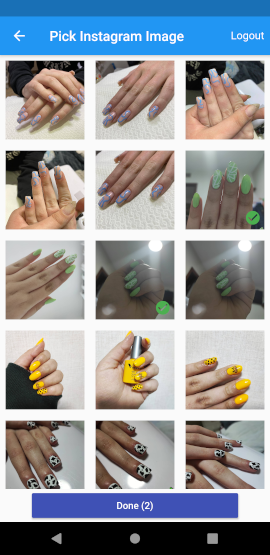
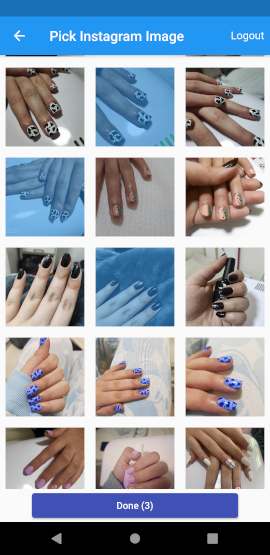
updated to use pagination + small ui tweaks

diff --git a/lib/screens.dart b/lib/screens.dart
@@ -13,11 +13,13 @@ class _InstagramLoginPageState extends State<InstagramLoginPage> {
   String _username;
   String _password;
   bool _isValid = false;
+  bool _isPasswordVisible = false;
+  bool _selectedPasswordField = false;
 
   @override
   Widget build(BuildContext context) {
     return Scaffold(
-      backgroundColor: Colors.white,
+      backgroundColor: Colors.grey[50],
       appBar: AppBar(
         backgroundColor: Colors.grey[800],
         title: const Text(
@@ -45,6 +47,11 @@ class _InstagramLoginPageState extends State<InstagramLoginPage> {
                   Container(
                     height: 48,
                     child: TextFormField(
+                      onTap: () {
+                        setState(() {
+                          _selectedPasswordField = false;
+                        });
+                      },
                       initialValue: _username ?? '',
                       onChanged: (val) {
                         _username = val;
@@ -56,11 +63,11 @@ class _InstagramLoginPageState extends State<InstagramLoginPage> {
                         hintStyle: TextStyle(color: Colors.grey[600]),
                         focusedBorder: OutlineInputBorder(
                           borderSide:
-                              BorderSide(color: Colors.grey, width: 0.9),
+                              BorderSide(color: Colors.grey[700], width: 0.9),
                         ),
                         enabledBorder: OutlineInputBorder(
                           borderSide:
-                              BorderSide(color: Colors.grey, width: 0.6),
+                              BorderSide(color: Colors.grey, width: 0.9),
                         ),
                       ),
                     ),
@@ -68,26 +75,58 @@ class _InstagramLoginPageState extends State<InstagramLoginPage> {
                   const SizedBox(height: 8),
                   Container(
                     height: 48,
+                    decoration: BoxDecoration(
+                        borderRadius: BorderRadius.circular(4),
+                        border: Border.all(
+                          color: _selectedPasswordField
+                              ? Colors.grey[700]
+                              : Colors.grey,
+                          width: 1.1,
+                        )),
                     child: TextFormField(
+                      onTap: () {
+                        setState(() {
+                          _selectedPasswordField = true;
+                        });
+                      },
                       initialValue: _password ?? '',
                       onChanged: (val) {
                         _password = val;
                         _checkForm();
                       },
                       decoration: InputDecoration(
+                        suffixIcon: Container(
+                          width: 76,
+                          height: 40,
+                          color: Colors.grey[100],
+                          child: CupertinoButton(
+                            padding: const EdgeInsets.all(2),
+                            child: Text(
+                              _isPasswordVisible ? "Hide" : "Show",
+                              style: TextStyle(
+                                  fontSize: 17,
+                                  color: Colors.black,
+                                  fontWeight: FontWeight.bold),
+                            ),
+                            onPressed: () {
+                              setState(() {
+                                _isPasswordVisible = !_isPasswordVisible;
+                              });
+                            },
+                          ),
+                        ),
                         isDense: true,
                         hintText: 'Password',
                         hintStyle: TextStyle(color: Colors.grey[600]),
                         focusedBorder: OutlineInputBorder(
                           borderSide:
-                              BorderSide(color: Colors.grey, width: 0.9),
+                              BorderSide(color: Colors.grey[600], width: 0),
                         ),
                         enabledBorder: OutlineInputBorder(
-                          borderSide:
-                              BorderSide(color: Colors.grey, width: 0.6),
+                          borderSide: BorderSide(color: Colors.grey, width: 0),
                         ),
                       ),
-                      obscureText: true,
+                      obscureText: !_isPasswordVisible,
                     ),
                   ),
                   const SizedBox(height: 24),

diff --git a/lib/picker.dart b/lib/picker.dart
@@ -49,7 +49,6 @@ class _InstagramImagePickerState extends State<InstagramImagePicker>
   InstagramApiClient _client;
   List<Photo> _photos = [];
 
-  // String _photosNextLink;
   int _page;
   bool _hasNext = true;
 
@@ -57,6 +56,7 @@ class _InstagramImagePickerState extends State<InstagramImagePicker>
   static bool first = true;
 
   AnimationController _controller;
+
   // Animation<Offset> _imageListPosition;
 
   @override
@@ -90,6 +90,7 @@ class _InstagramImagePickerState extends State<InstagramImagePicker>
 
   String get title => widget.appBarTitle;
 
+  /// Handles pagination and loading more photos if left
   Future<void> _paginatePhotos() async {
     if (!first && !_hasNext) {
       return;
@@ -97,39 +98,34 @@ class _InstagramImagePickerState extends State<InstagramImagePicker>
 
     PhotoPaging photoPaging;
 
-    if(_page == null) {
+    if (_page == null) {
       photoPaging = await _client.fetchPhotos(
         userId: widget._accessMap['userId'],
         sessionKey: widget._accessMap['sessionKey'],
       );
       _page = 0;
-    }
-    else {
+    } else {
       photoPaging = await _client.fetchPhotos(
         userId: widget._accessMap['userId'],
         sessionKey: widget._accessMap['sessionKey'],
-        page: _page+1,
+        page: _page + 1,
       );
       _page++;
     }
 
-    if(!photoPaging.hasNext){
+    if (!photoPaging.hasNext) {
       _hasNext = false;
     }
 
-
     setState(() {
       _photos.addAll(photoPaging.data);
-      // if (photos.pagination != null) {
-      //   _photosNextLink = photos.pagination.next;
-      // }
     });
   }
 
   void _reset() {
     setState(() {
       _selectedPhotos = [];
-      // _photosNextLink = null;
+      _hasNext = true;
     });
   }
 
@@ -218,24 +214,29 @@ class _InstagramImagePickerState extends State<InstagramImagePicker>
           ],
         ),
       ),
-      bottomSheet: Row(
-        mainAxisAlignment: MainAxisAlignment.center,
-        children: <Widget>[
-          Container(
-            width: 300,
-            child: ElevatedButton(
-              style: ButtonStyle(
-                backgroundColor: MaterialStateProperty.all(Colors.indigo),
+      bottomSheet: Padding(
+        padding: const EdgeInsets.all(8.0),
+        child: Row(
+          mainAxisAlignment: MainAxisAlignment.center,
+          children: <Widget>[
+            Container(
+              width: 300,
+              height: 40,
+              child: ElevatedButton(
+                style: ButtonStyle(
+                  visualDensity: VisualDensity.adaptivePlatformDensity,
+                  backgroundColor: MaterialStateProperty.all(Colors.indigo),
+                ),
+                //color: Colors.indigo,
+                child: Text(
+                  "${widget.doneBtnText} (${_selectedPhotos.length})",
+                  style: TextStyle(color: Colors.white),
+                ),
+                onPressed: _onDone,
               ),
-              //color: Colors.indigo,
-              child: Text(
-                "${widget.doneBtnText} (${_selectedPhotos.length})",
-                style: TextStyle(color: Colors.white),
-              ),
-              onPressed: _onDone,
             ),
-          ),
-        ],
+          ],
+        ),
       ),
     );
   }

diff --git a/lib/ui/photo_grid.dart b/lib/ui/photo_grid.dart
@@ -3,7 +3,6 @@ import 'package:flutter/material.dart';
 import '../debounce.dart';
 import '../flutter_instagram_image_picker.dart';
 
-
 class PhotoGrid extends StatefulWidget {
   final List<Photo> _photos;
   final List<Photo> _selectedPhotos;
@@ -11,11 +10,11 @@ class PhotoGrid extends StatefulWidget {
   final Function onLoadMore;
 
   PhotoGrid(
-      this._photos,
-      this._selectedPhotos, {
-        @required this.onPhotoTap,
-        @required this.onLoadMore,
-      });
+    this._photos,
+    this._selectedPhotos, {
+    @required this.onPhotoTap,
+    @required this.onLoadMore,
+  });
 
   @override
   PhotoGridState createState() {
@@ -32,7 +31,7 @@ class PhotoGridState extends State<PhotoGrid> {
     super.initState();
     _debouncer = Debouncer(
       Duration(seconds: 1),
-          (arg) => widget.onLoadMore(),
+      (arg) => widget.onLoadMore(),
       null,
       true,
     );
@@ -66,23 +65,13 @@ class PhotoGridState extends State<PhotoGrid> {
           Positioned.fill(
             child: FadeInImage(
               image: NetworkImage(photo.url),
-              placeholder: AssetImage(
-                'assets/loading.gif',
-                package: 'flutter_instagram_image_picker'
-              ),
+              placeholder: AssetImage('assets/loading.gif',
+                  package: 'flutter_instagram_image_picker'),
               fit: BoxFit.cover,
             ),
           ),
-          _isSelected(photo)
-              ? Positioned(
-            bottom: 5.00,
-            right: 5.00,
-            child: Icon(
-              Icons.check_circle,
-              color: Colors.green,
-            ),
-          )
-              : null,
+          if (_isSelected(photo))
+            Opacity(opacity: 0.5, child: Container(color: Colors.blue))
         ].where((o) => o != null).toList(),
       ),
     );

diff --git a/example/lib/main.dart b/example/lib/main.dart
@@ -46,6 +46,9 @@ class LoginPage extends StatelessWidget {
                     accessMapData,
                     showLogoutButton: true,
                     onDone: (items) {
+                      items.forEach((element) {
+                        print('selected: ${element.url}');
+                      });
                       Navigator.pop(context);
                     },
                     onCancel: () => Navigator.pop(context),

diff --git a/README.md b/README.md
@@ -38,7 +38,9 @@ Navigator.push(
     builder: (context) => InstagramImagePicker(
       accessMapData,
       showLogoutButton: true,
-      onDone: (items) {
+      onDone: (photos) {
+        // photos are the photos you selected in the picker
+        // each one has the url
         Navigator.pop(context);
       },
       onCancel: () => Navigator.pop(context),
@@ -51,7 +53,9 @@ Navigator.push(
 ## Screenshots
 * Login Page:
 
-![](images/login_page.png)
+![](images/login_empty.png) 
+![](images/login_filled.png)
+
 
 * Image Picker:
 

diff --git a/CHANGELOG.md b/CHANGELOG.md
@@ -1,6 +1,7 @@
 ## [1.1.0]
 * Updated `Sign in with Instagram` screen
-* Added pagination support (up to 20 more photos each load)  
+* Added pagination support (up to 20 more photos each load)
+* Updated selection UI  
 
 ## [1.0.0]
 * Using __new REST API solution__ to fetch the photos correctly
